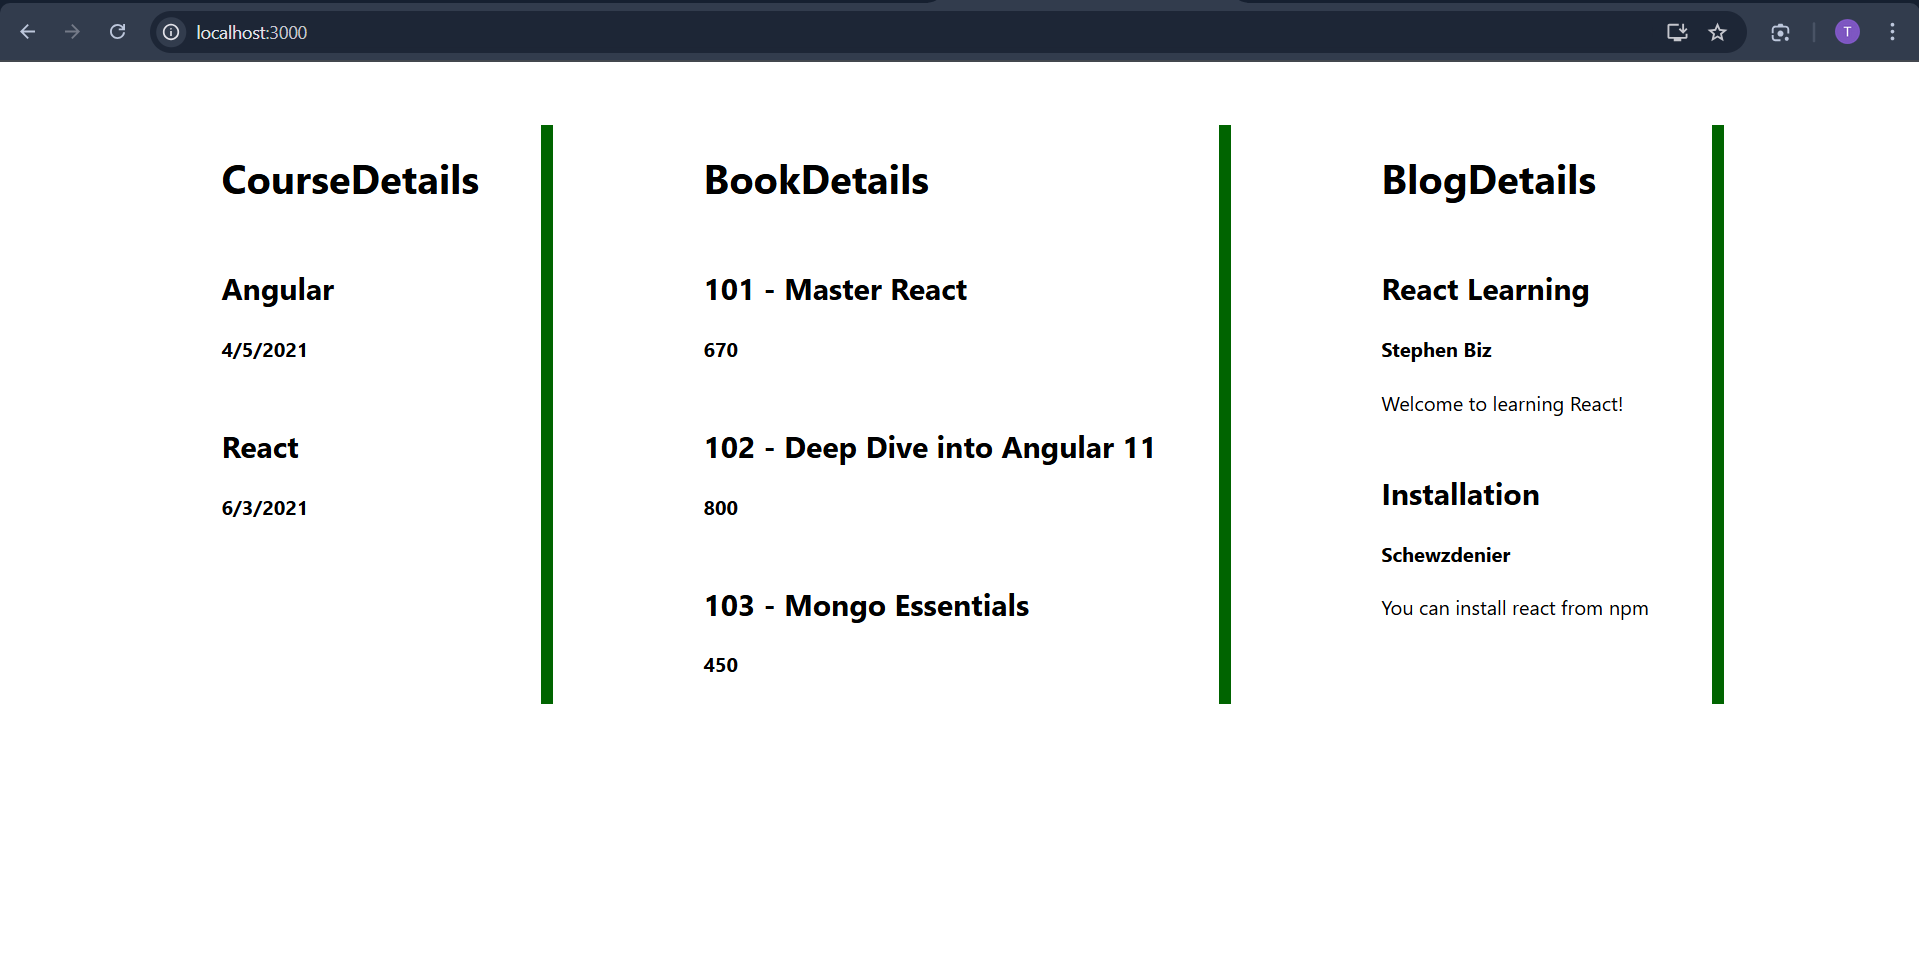
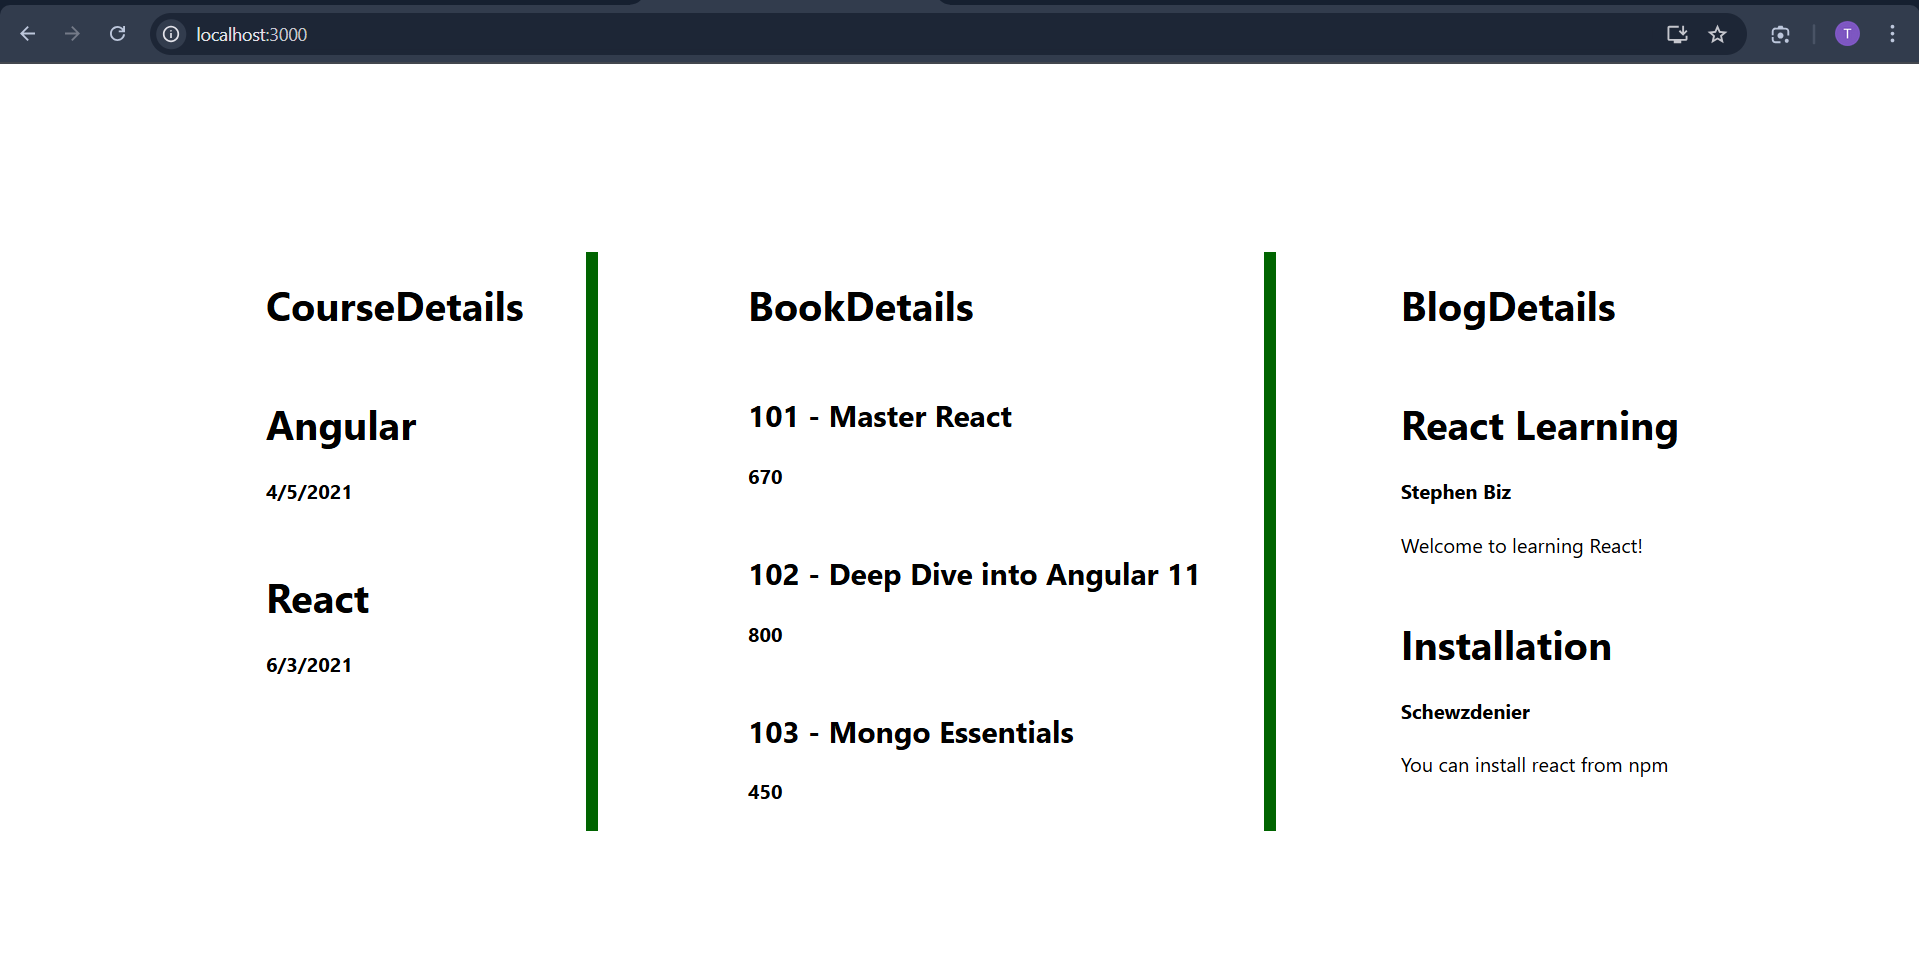
Changes in React-13 hands-on

diff --git a/WEEK7/React/13. ReactJS-HOL/Code/bloggerapp/src/App.js b/WEEK7/React/13. ReactJS-HOL/Code/bloggerapp/src/App.js
@@ -6,14 +6,14 @@ import './App.css'
 
 function App() {
   return (
-    <div style={{display:'flex',columnGap:'100px',padding:'50px',justifyContent:'center'}}>
+    <div style={{display:'flex',columnGap:'100px',padding:'50px',justifyContent:'center',marginTop:'100px'}}>
       <div className='border'>
         <CourseDetails />
       </div>
       <div className='border'>
         <BookDetails />
       </div>
-      <div className='border'>
+      <div>
           <BlogDetails />
       </div>
     </div>

diff --git a/WEEK7/React/13. ReactJS-HOL/Code/bloggerapp/src/components/BlogDetails.js b/WEEK7/React/13. ReactJS-HOL/Code/bloggerapp/src/components/BlogDetails.js
@@ -6,7 +6,7 @@ function BlogDetails() {
       <h1>BlogDetails</h1>
        {blog.map((blogDetail)=>(
          <div>
-           <h2>{blogDetail.name}</h2>
+           <h1>{blogDetail.name}</h1>
            <h4>{blogDetail.author}</h4>
            <p>{blogDetail.des}</p>
          </div>

diff --git a/WEEK7/React/13. ReactJS-HOL/Code/bloggerapp/src/components/CourseDetails.js b/WEEK7/React/13. ReactJS-HOL/Code/bloggerapp/src/components/CourseDetails.js
@@ -6,7 +6,7 @@ function CourseDetails() {
       <h1>CourseDetails</h1>
       {course.map((courseDetail)=>(
         <div>
-          <h2>{courseDetail.name}</h2>
+          <h1>{courseDetail.name}</h1>
           <h4>{courseDetail.date}</h4>
         </div>
       ))}
